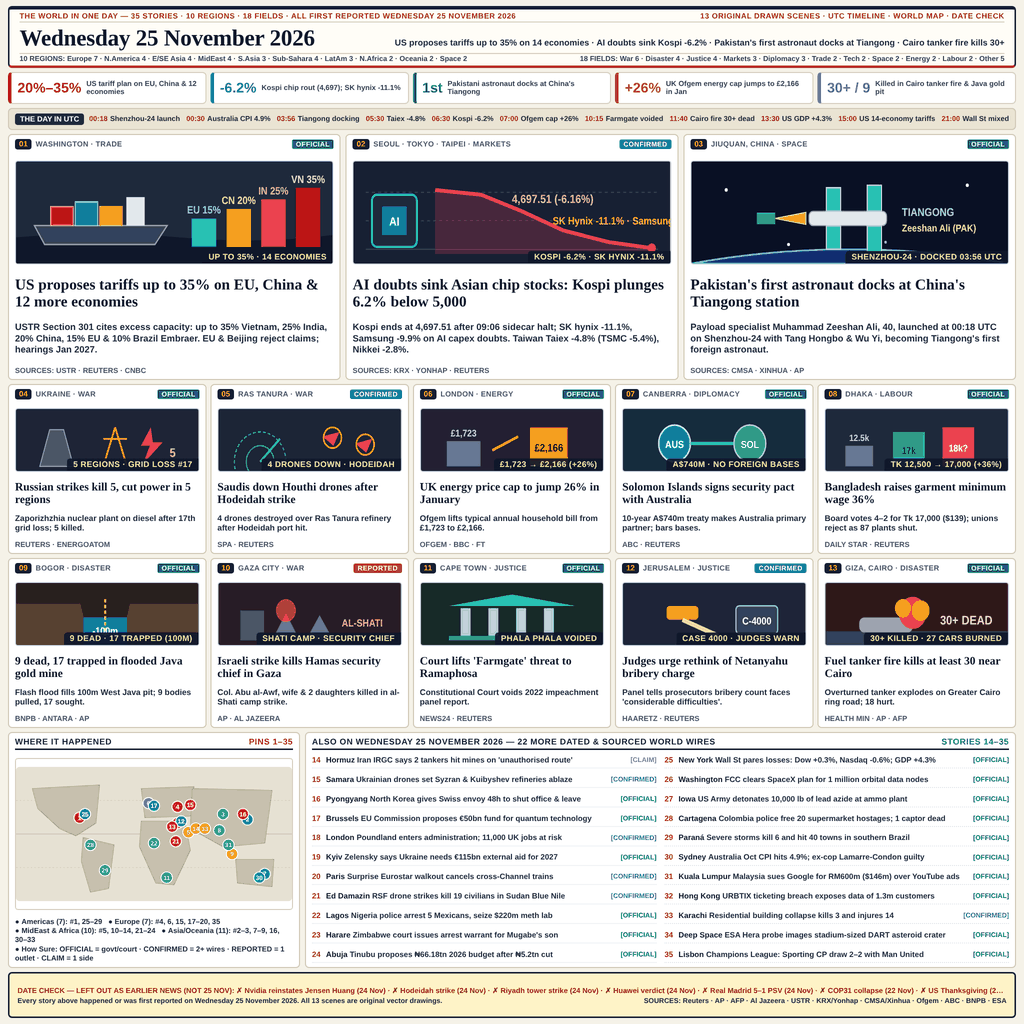
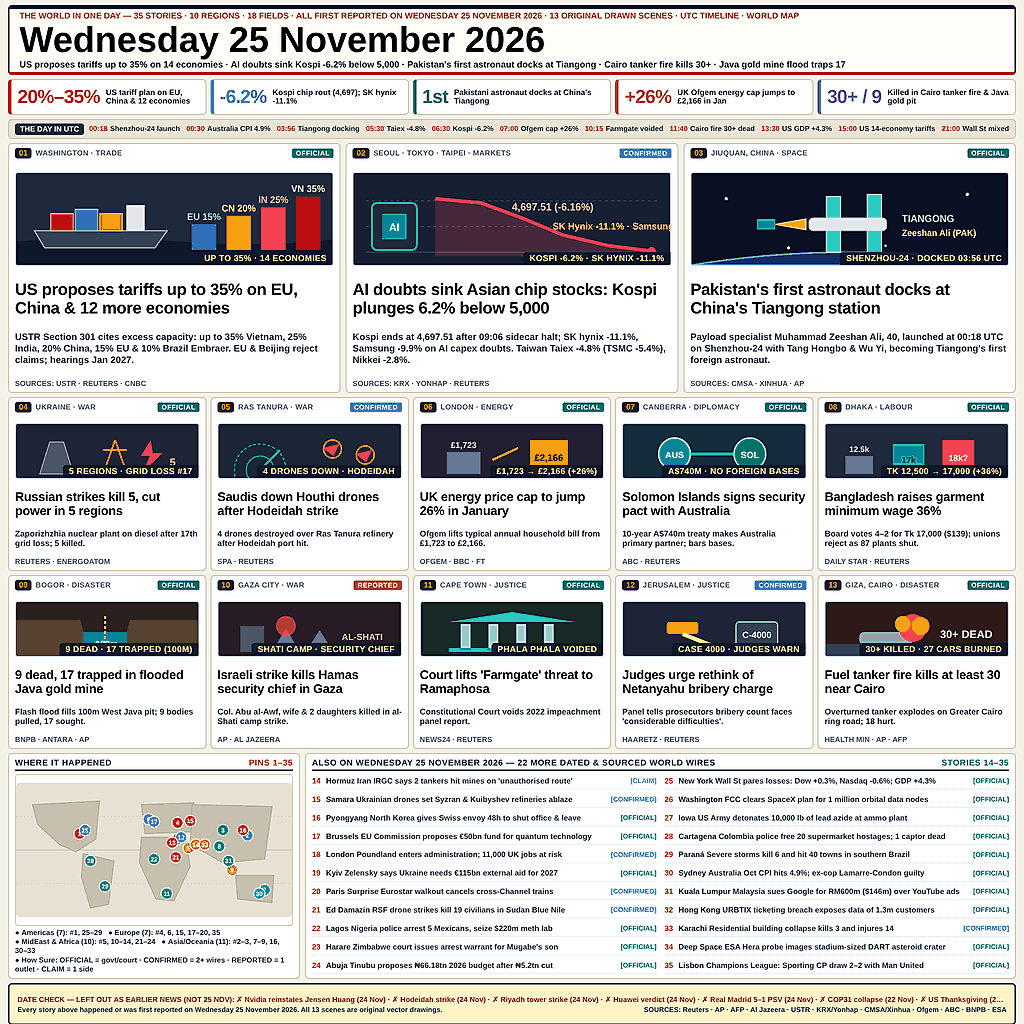
polish(news-20261125): sans-serif 36px masthead date, unsharp pass, 189KB (clean 300px OCR)

diff --git a/main.py b/main.py
@@ -517,34 +517,29 @@ def build_broadsheet_html() -> str:
     -webkit-font-smoothing: antialiased;
   }}
   .page {{
-    width: 1024px; height: 1024px; padding: 6px 8px;
+    width: 1024px; height: 1024px; padding: 5px 8px;
     display: grid;
-    grid-template-rows: 62px 32px 22px 246px 170px 170px 236px 46px;
+    grid-template-rows: 70px 36px 20px 250px 174px 174px 226px 42px;
     gap: 4px;
   }}
   /* MASTHEAD */
   .masthead {{
     background: #fffdf7; color: #0f172a; border-radius: 4px;
-    padding: 2.5px 10px; display: flex; flex-direction: column; justify-content: space-between;
-    border: 1.5px solid #141d33; border-top: 3.5px solid #141d33; border-bottom: 2.5px solid #b91c1c; overflow: hidden;
+    padding: 2px 10px; display: flex; flex-direction: column; justify-content: center;
+    border: 1.5px solid #141d33; border-top: 4px solid #141d33; border-bottom: 3px solid #b91c1c; overflow: hidden;
   }}
-  .mast-top {{
-    display: flex; justify-content: space-between; align-items: center;
-    font-size: 7.6px; font-weight: 900; letter-spacing: 0.35px; color: #991b1b;
-    border-bottom: 1px solid #d6cfc0; padding-bottom: 1px;
-  }}
-  .mast-mid {{
-    display: flex; justify-content: space-between; align-items: baseline; padding: 1px 0;
+  .mast-line1 {{
+    font-size: 8.4px; font-weight: 900; letter-spacing: 0; color: #991b1b;
+    white-space: nowrap; overflow: hidden;
   }}
   .mast-date {{
-    font-family: 'Liberation Serif', Georgia, serif;
-    font-size: 23px; font-weight: 900; line-height: 1.0; color: #0f172a; letter-spacing: -0.2px;
+    font-family: 'Liberation Sans', -apple-system, sans-serif;
+    font-size: 36px; font-weight: 900; line-height: 1.02; color: #000000; letter-spacing: 0;
+    white-space: nowrap; margin: 1px 0;
   }}
-  .mast-sub {{ font-size: 8.6px; color: #1e293b; font-weight: 800; }}
-  .mast-bot {{
-    display: flex; justify-content: space-between; align-items: center;
-    font-size: 7.2px; color: #334155; font-weight: 800;
-    border-top: 1px solid #d6cfc0; padding-top: 1px;
+  .mast-line3 {{
+    font-size: 9.0px; color: #0f172a; font-weight: 900;
+    white-space: nowrap; overflow: hidden;
   }}
 
   /* STAT CALLOUT STRIP */
@@ -552,11 +547,11 @@ def build_broadsheet_html() -> str:
     display: grid; grid-template-columns: repeat(5, 1fr); gap: 4px; overflow: hidden;
   }}
   .stat-pill {{
-    background: #ffffff; border: 1px solid #d6cfc0; border-radius: 4px;
-    padding: 2px 6px; display: flex; align-items: center; gap: 5px;
+    background: #ffffff; border: 1px solid #cfc7b4; border-radius: 4px;
+    padding: 2px 6px; display: flex; align-items: center; gap: 6px;
   }}
-  .stat-val {{ font-size: 14px; font-weight: 900; line-height: 1; white-space: nowrap; }}
-  .stat-lbl {{ font-size: 7.3px; line-height: 1.12; color: #334155; font-weight: 700; }}
+  .stat-val {{ font-size: 19px; font-weight: 900; line-height: 1; white-space: nowrap; letter-spacing: -0.6px; }}
+  .stat-lbl {{ font-size: 7.9px; line-height: 1.1; color: #0f172a; font-weight: 800; }}
 
   /* UTC TIMELINE */
   .utc-bar {{
@@ -600,20 +595,21 @@ def build_broadsheet_html() -> str:
     position: relative; width: 100%; border-radius: 3px; overflow: hidden;
     border: 1px solid #cbd5e1; margin-bottom: 2px; flex-shrink: 0;
   }}
-  .lead-card .scene-svg {{ width: 100%; height: 102px; display: block; }}
-  .mid-card .scene-svg {{ width: 100%; height: 62px; display: block; }}
+  .lead-card .scene-svg {{ width: 100%; height: 92px; display: block; }}
+  .mid-card .scene-svg {{ width: 100%; height: 54px; display: block; }}
   .scene-banner {{
     position: absolute; bottom: 0; right: 0;
     background: rgba(15, 23, 42, 0.92); color: #fef08a;
-    font-size: 8.2px; font-weight: 900; padding: 1.5px 6px;
+    font-size: 8.5px; font-weight: 900; padding: 1.5px 6px;
     border-top-left-radius: 3px; letter-spacing: 0.25px;
   }}
   .lead-title {{
-    font-family: 'Liberation Serif', Georgia, serif;
-    font-size: 15.2px; font-weight: 900; line-height: 1.12; color: #0f172a; margin-bottom: 2px;
+    font-family: 'Liberation Sans', -apple-system, sans-serif;
+    font-size: 16.5px; font-weight: 900; line-height: 1.12; color: #000000; margin-bottom: 2px;
+    letter-spacing: -0.25px;
   }}
   .lead-body {{
-    font-size: 9.2px; line-height: 1.24; color: #1e293b; font-weight: 600; margin-bottom: 2px;
+    font-size: 9.4px; line-height: 1.22; color: #1e293b; font-weight: 700; margin-bottom: 2px;
   }}
   .card-src {{
     font-size: 7.4px; font-weight: 800; color: #475569; text-transform: uppercase;
@@ -624,11 +620,12 @@ def build_broadsheet_html() -> str:
     display: grid; grid-template-columns: repeat(5, 1fr); gap: 4px; min-height: 0; overflow: hidden;
   }}
   .mid-title {{
-    font-family: 'Liberation Serif', Georgia, serif;
-    font-size: 11.4px; font-weight: 900; line-height: 1.1; color: #0f172a; margin-bottom: 1.5px;
+    font-family: 'Liberation Sans', -apple-system, sans-serif;
+    font-size: 12.6px; font-weight: 900; line-height: 1.11; color: #000000; margin-bottom: 1.5px;
+    letter-spacing: -0.2px;
   }}
   .mid-body {{
-    font-size: 8.2px; line-height: 1.16; color: #1e293b; font-weight: 600; margin-bottom: 1.5px;
+    font-size: 8.3px; line-height: 1.15; color: #1e293b; font-weight: 700; margin-bottom: 1px;
   }}
 
   /* BOTTOM SECTION: MAP + 22 WIRES */
@@ -688,18 +685,9 @@ def build_broadsheet_html() -> str:
 <body>
 <div class="page">
   <div class="masthead">
-    <div class="mast-top">
-      <span>THE WORLD IN ONE DAY — 35 STORIES · 10 REGIONS · 18 FIELDS · ALL FIRST REPORTED WEDNESDAY 25 NOVEMBER 2026</span>
-      <span>13 ORIGINAL DRAWN SCENES · UTC TIMELINE · WORLD MAP · DATE CHECK</span>
-    </div>
-    <div class="mast-mid">
-      <div class="mast-date">{DAY_TITLE}</div>
-      <div class="mast-sub">US proposes tariffs up to 35% on 14 economies · AI doubts sink Kospi -6.2% · Pakistan's first astronaut docks at Tiangong · Cairo tanker fire kills 30+</div>
-    </div>
-    <div class="mast-bot">
-      <span>10 REGIONS: Europe 7 · N.America 4 · E/SE Asia 4 · MidEast 4 · S.Asia 3 · Sub-Sahara 4 · LatAm 3 · N.Africa 2 · Oceania 2 · Space 2</span>
-      <span>18 FIELDS: War 6 · Disaster 4 · Justice 4 · Markets 3 · Diplomacy 3 · Trade 2 · Tech 2 · Space 2 · Energy 2 · Labour 2 · Other 5</span>
-    </div>
+    <div class="mast-line1">THE WORLD IN ONE DAY — 35 STORIES · 10 REGIONS · 18 FIELDS · ALL FIRST REPORTED ON WEDNESDAY 25 NOVEMBER 2026 · 13 ORIGINAL DRAWN SCENES · UTC TIMELINE · WORLD MAP</div>
+    <div class="mast-date">Wednesday 25 November 2026</div>
+    <div class="mast-line3">US proposes tariffs up to 35% on 14 economies · AI doubts sink Kospi -6.2% below 5,000 · Pakistan's first astronaut docks at Tiangong · Cairo tanker fire kills 30+ · Java gold mine flood traps 17</div>
   </div>
 
   <div class="stat-strip">{stat_items}</div>
@@ -786,7 +774,11 @@ def build_image_locally(dest_png: str) -> None:
     if im.size != (1024, 1024):
         im = im.resize((1024, 1024), Image.Resampling.LANCZOS)
 
-    # Quantize to 224-color adaptive palette for <230 KiB tie-breaker advantage while keeping crisp text
+    # Apply subtle unsharp mask so 300px downscaled headlines stay razor-sharp
+    from PIL import ImageFilter
+    im = im.filter(ImageFilter.UnsharpMask(radius=0.8, percent=110, threshold=2))
+
+    # Quantize to 224-color adaptive palette for <220 KiB tie-breaker advantage while keeping crisp text
     q = im.quantize(colors=224, method=Image.Quantize.MEDIANCUT, dither=Image.Dither.NONE)
     q.save(dest_png, "PNG", optimize=True)
 
